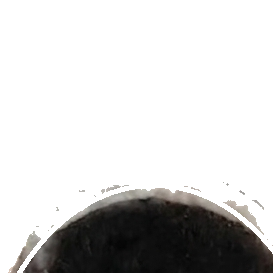
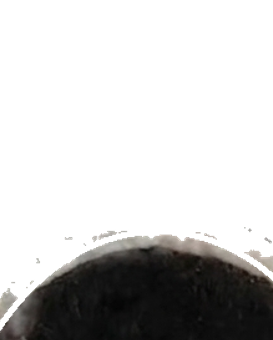
fix(bot): oval face (64×80px) + 273×340 resize for face fit
- Bot changed from circle (54×54) to oval (64×80)
- Faces resized to 273×340 (taller for oval fit)
- border-radius: 50%/45% for natural oval shape

diff --git a/ops/command-center/index.html b/ops/command-center/index.html
@@ -48,7 +48,7 @@ footer{font-size:.65rem;color:#484f58;text-align:center;padding:6px 0 0;border-t
 .bot-container{position:fixed;bottom:16px;right:16px;z-index:999;display:flex;flex-direction:column;align-items:flex-end;gap:6px}
 .bot-bubble{background:#161b22;border:1px solid #3fb95044;border-radius:8px;padding:8px 12px;max-width:220px;font-size:.65rem;color:#c9d1d9;box-shadow:0 2px 12px #00000044;animation:floatBubble 4s ease-in-out infinite}
 .bot-bubble strong{color:#3fb950;display:block;font-size:.6rem;margin-bottom:3px}
-.bot-face{width:54px;height:54px;border-radius:50%;border:2px solid #3fb950;background-size:cover;background-position:center;animation:cycleFaces 6s steps(1) infinite;cursor:pointer;box-shadow:0 0 14px #3fb95044;transition:transform .2s}
+.bot-face{width:64px;height:80px;border-radius:50%/45%;border:2px solid #3fb950;background-size:cover;background-position:center;animation:cycleFaces 6s steps(1) infinite;cursor:pointer;box-shadow:0 0 14px #3fb95044;transition:transform .2s}
 .bot-face:hover{transform:scale(1.15)}
 @keyframes floatBubble{0%,100%{transform:translateY(0)}50%{transform:translateY(-5px)}}
 @keyframes cycleFaces{0%{background-image:url('/command-center/faces/CARONAI0_face1.png')}
